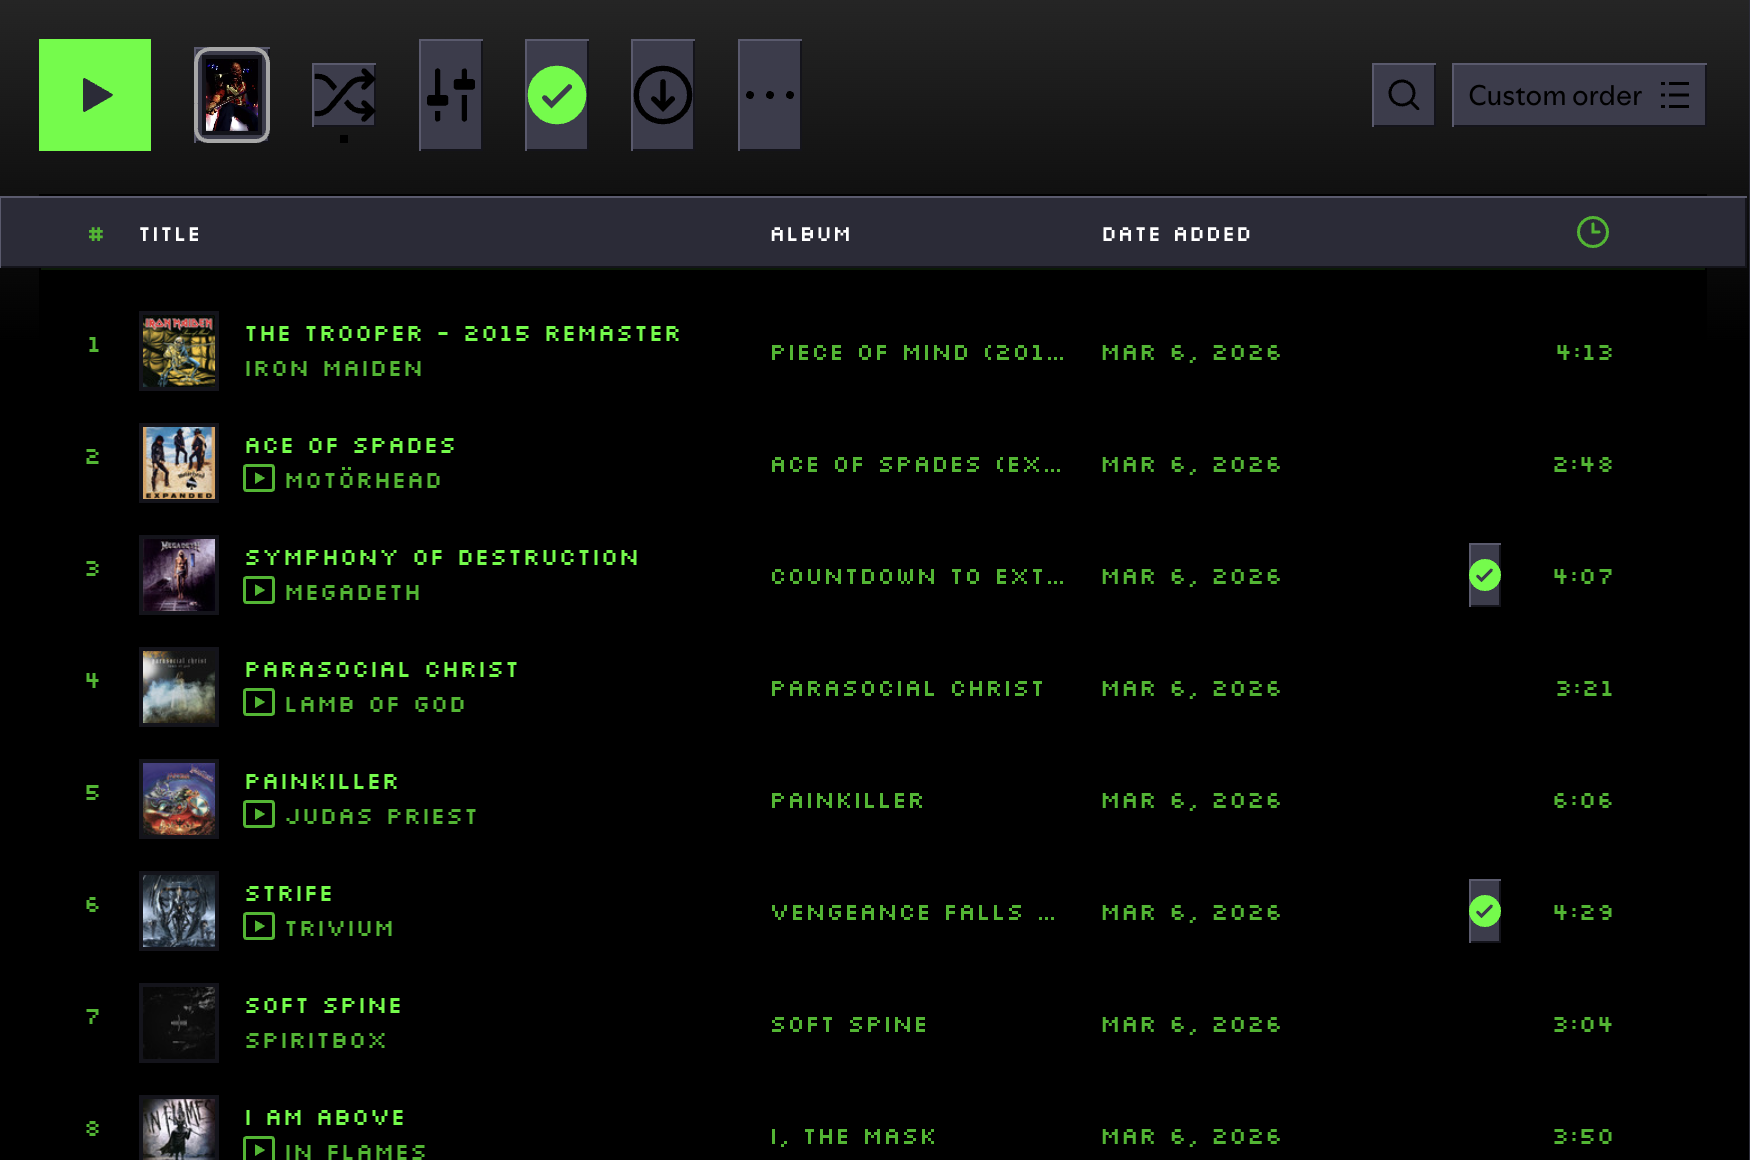
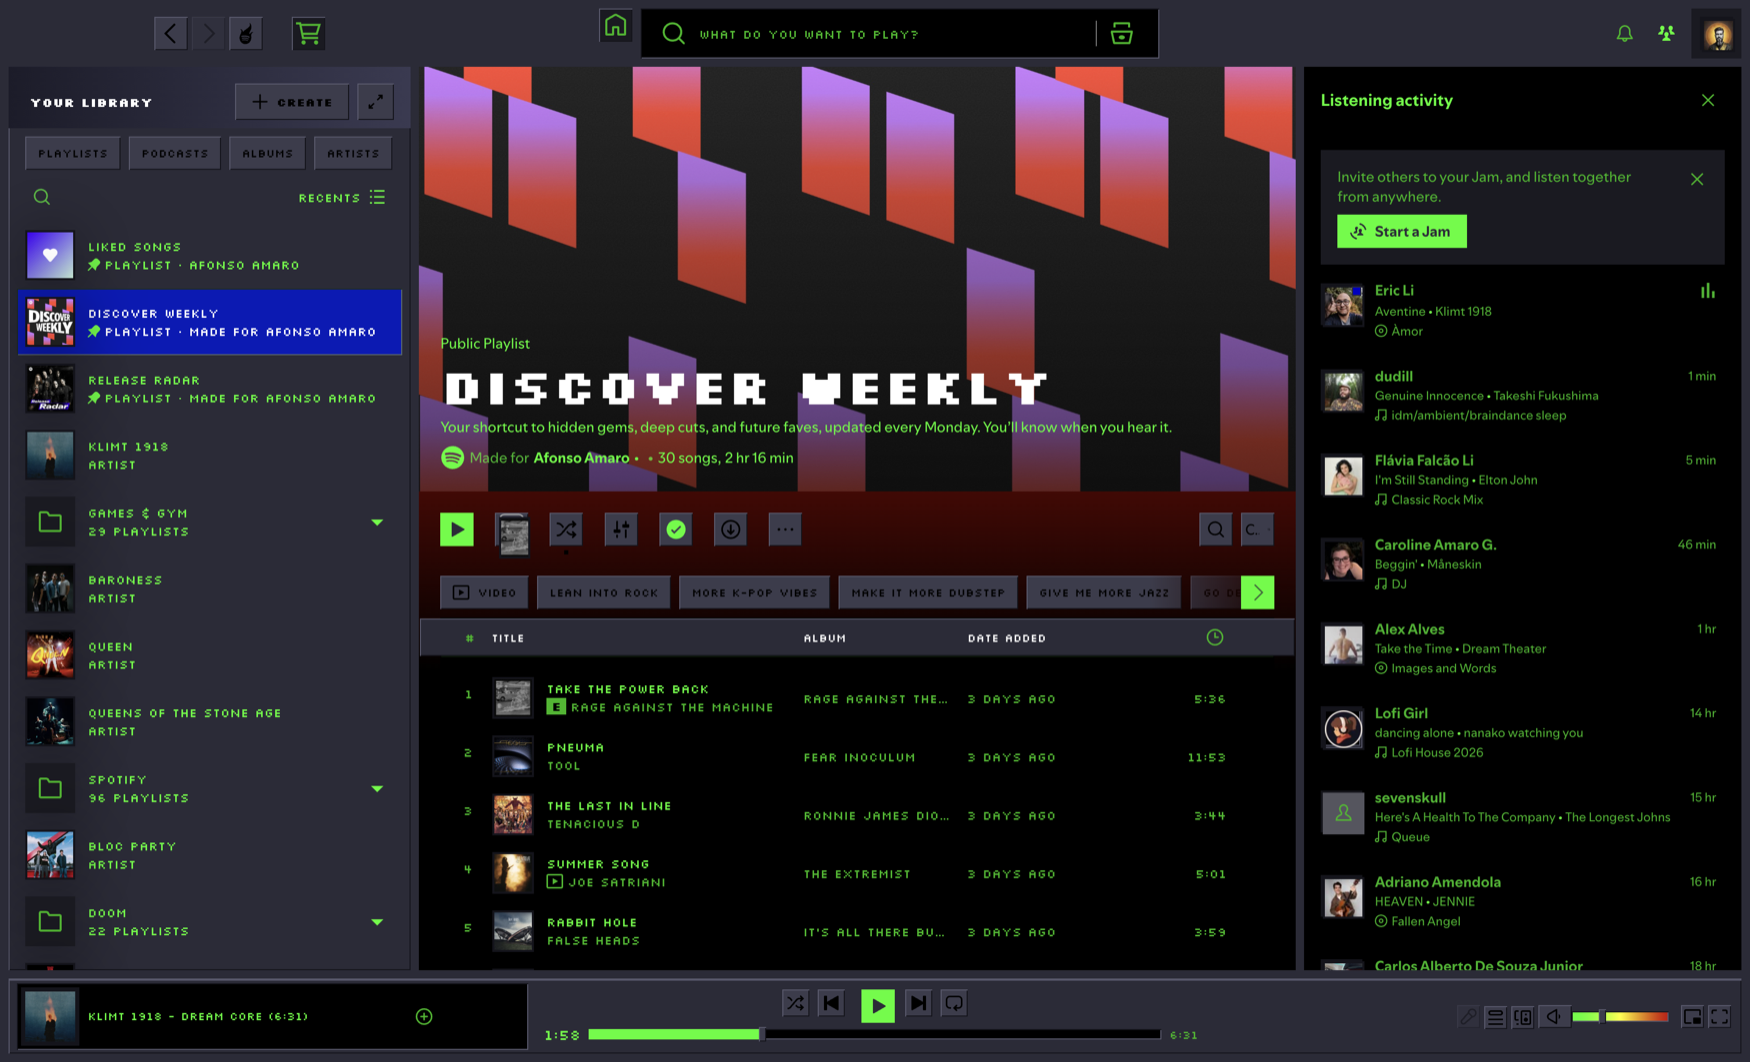
feat: uniform playlist action row + macOS traffic-light clearance (FN-10)

diff --git a/user.css b/user.css
@@ -713,6 +713,71 @@ button.main-globalNav-navLinkActive {
   background-color: var(--wa-bevel-dark);
 }
 
+/* The playlist action row. Spotify mixes a 56px green play, a 38x48 explore
+   key and 32px keys of 32 or 56px height with 12 to 32px icons, so the row
+   gets one key recipe: uniform 32x32 raised keys, vertically centered, icons
+   capped so nothing touches the bevel. Play keeps the green accent at the
+   same box (the PP-02 call: play stays green, everything else gray); its
+   green lives on the first inner span, reached structurally, never by its
+   generated class name. Scoped under main-actionBar-ActionBar so the
+   transport keys in the now playing bar keep their own recipe. */
+.main-actionBar-ActionBar .main-actionBar-ActionBarRow button {
+  width: 32px;
+  height: 32px;
+  padding: 4px;
+  box-sizing: border-box;
+  display: inline-flex;
+  align-items: center;
+  justify-content: center;
+  align-self: center;
+  background-color: var(--spice-button);
+  box-shadow: var(--wa-raised);
+  color: var(--spice-shadow);
+}
+
+.main-actionBar-ActionBar .main-actionBar-ActionBarRow button:active {
+  box-shadow: var(--wa-sunken);
+}
+
+.main-actionBar-ActionBar .main-actionBar-ActionBarRow button svg {
+  max-width: 20px;
+  max-height: 20px;
+}
+
+/* Play fills the whole key with green: no padding on its button, and the
+   inner span is pinned to exactly 32x32. The max- caps matter: Encore sizes
+   that span with its own min rules, and max beats min in the cascade, so
+   this holds without !important. Two readable wrappers exist across pages
+   (ActionBarPlayButtonContainer, playButton-PlayButton); both are listed,
+   no generated name. Placed after the row rule so it wins the (0,2,1) tie. */
+.main-actionBar-ActionBar .main-actionBar-ActionBarPlayButtonContainer button,
+.main-actionBar-ActionBar .main-playButton-PlayButton button {
+  padding: 0;
+}
+
+.main-actionBar-ActionBar .main-actionBar-ActionBarPlayButtonContainer button > span:first-child,
+.main-actionBar-ActionBar .main-playButton-PlayButton button > span:first-child {
+  flex: none;
+  display: inline-flex;
+  align-items: center;
+  justify-content: center;
+  width: 32px;
+  min-width: 32px;
+  max-width: 32px;
+  height: 32px;
+  min-height: 32px;
+  max-height: 32px;
+}
+
+/* The traffic lights are window chrome drawn over the top-left corner, and
+   on this build nothing clears them: the history container starts at x=8.
+   The document carries a platform hook, so the clearance lives only on
+   macOS and no other platform shifts. 72px clears the ~64px cluster with an
+   8px gap. Windows caption buttons are out of scope. */
+html.spotify__os--is-macos .main-globalNav-historyButtonsContainer {
+  margin-left: 72px;
+}
+
 /* Section titles. The entity header is the name on a playlist, album or artist
    page; shelf titles are the headings on Home. Both take the pixel face and
    white, but neither gets a title-bar band: Home would turn into a stack of

diff --git a/issues/FN-10-playlist-actions-traffic-lights.md b/issues/FN-10-playlist-actions-traffic-lights.md
@@ -48,3 +48,10 @@ Readable scope exists: the row is `DIV.main-actionBar-ActionBarRow`, the play wr
 
 ## Dependencies
 - PP-05 (controls language), FN-08 (top bar area)
+
+## Verification (automated + live, 2026-09-17, branch `feat/fn-10-playlist-actions`)
+
+- `pnpm check` green (CSS-only change, 88/88 tests untouched).
+- Live (Spotify 1.3.0.277, playlist + album pages): every action-row key measures 32x32, icons 12-20px; play inner span exactly 32x32 green; history container at x=80 (was x=8).
+- Follow-up found live: the play button ships in two readable wrappers (`ActionBarPlayButtonContainer`, `playButton-PlayButton`); both are listed. Encore sizes the green inner span with its own min rules, so the span is pinned with min+max caps (max beats min, no `!important`).
+- `docs/screenshots/playlist.png` and `docs/screenshots/home.png` refreshed from the verified state. Incident on the way: a debug-flag relaunch raced the patch and showed "Something went wrong"; `Page.reload` via CDP recovered it, theme intact.

diff --git a/issues/_index.md b/issues/_index.md
@@ -29,7 +29,7 @@ Source: `SPECS.md`. Spicetify theme that recreates the Winamp 2.x look with CSS,
 | FN-07 | Spotify 1.3.0 compatibility | done (Sep 14) | PP-05 |
 | FN-08 | Top bar fixes on Spotify 1.3.0 | ✅ done (Sep 16), verified live via CDP | FN-07 |
 | FN-09 | Marquee drawn on a canvas | ✅ done (Sep 16), LayoutCount 0 over 4 s while scrolling | FN-03 |
-| FN-10 | Playlist action row + traffic-light clearance | todo | PP-05, FN-08 |
+| FN-10 | Playlist action row + traffic-light clearance | ✅ done (Sep 17), verified live via CDP | PP-05, FN-08 |
 
 ## Critical path
 FN-00 → FN-00b → PP-01 → PP-02 → FN-01 → FN-02 → FN-03 → FN-05 → FN-06.
